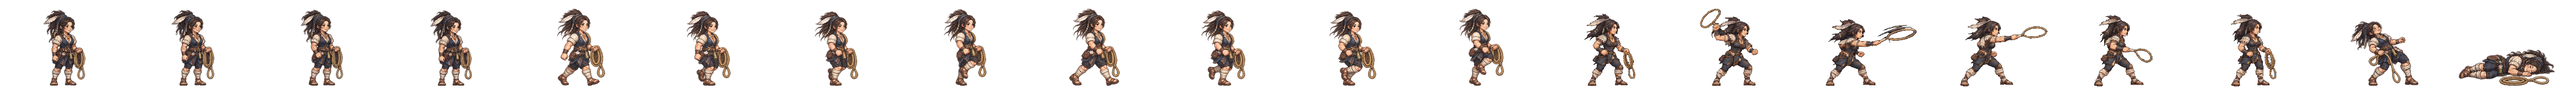
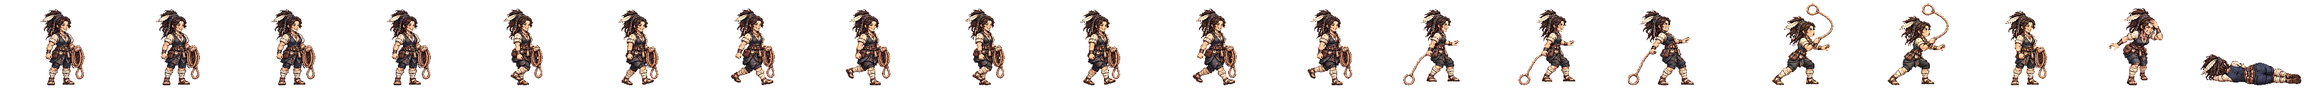
미추홀 비라 새 밧줄 띠를 게임에 넣음(칸 38 · 공격 칸 폭 288 · 걷기 뒤 절반을 앞 절반으로 · 휘두름 쥔 손은 다시 주문 L33·L34) · 인수인계
Claude-Session: https://claude.ai/code/session_01TRiuN7s6aDfSnaHxrkctmU

Changed region(s): [[0.4688, 0.0938, 1.0, 0.9688], [0.2188, 0.125, 0.4375, 0.9688], [0.0, 0.125, 0.1875, 0.9688]]

diff --git a/src/realm/data/spritePx.ts b/src/realm/data/spritePx.ts
@@ -1,3 +1,3 @@
 /** public/realm/anim-px/manifest.json 의 사본 — tools/sprite-normalize.mjs 가 만든다 (손으로 고치지 말 것). 칸 [가로, 세로] · feet = 발 줄(칸 위에서 y) · bodyPx = 서 있는 몸 키 */
 import { expandManifest } from './sprite-manifest.ts'
-export const SPRITE_PX: Readonly<Record<string, { readonly cell: readonly [number, number]; readonly feet: number; readonly bodyPx: number; readonly kind: 'general' | 'soldier' | 'folk' | 'crowd'; readonly cells: number }>> = expandManifest<{ readonly cell: readonly [number, number]; readonly feet: number; readonly bodyPx: number; readonly kind: 'general' | 'soldier' | 'folk' | 'crowd'; readonly cells: number }>([{"cell":[166,128],"feet":126,"bodyPx":124,"kind":"soldier","cells":20},{"cell":[116,128],"feet":126,"bodyPx":117,"kind":"soldier","cells":20},{"cell":[127,128],"feet":126,"bodyPx":116,"kind":"soldier","cells":20},{"cell":[269,128],"feet":126,"bodyPx":126,"kind":"soldier","cells":20},{"cell":[503,128],"feet":126,"bodyPx":127,"kind":"soldier","cells":20},{"cell":[614,128],"feet":126,"bodyPx":126,"kind":"soldier","cells":20},{"cell":[200,160],"feet":156,"bodyPx":138,"kind":"general","cells":20},{"cell":[208,160],"feet":155,"bodyPx":138,"kind":"general","cells":20},{"cell":[208,160],"feet":154,"bodyPx":138,"kind":"general","cells":20},{"cell":[304,160],"feet":155,"bodyPx":135,"kind":"general","cells":20},{"cell":[184,160],"feet":156,"bodyPx":138,"kind":"general","cells":20},{"cell":[208,160],"feet":154,"bodyPx":136,"kind":"general","cells":20},{"cell":[232,160],"feet":156,"bodyPx":138,"kind":"general","cells":20},{"cell":[208,160],"feet":156,"bodyPx":138,"kind":"general","cells":20},{"cell":[168,160],"feet":156,"bodyPx":124,"kind":"general","cells":20},{"cell":[216,160],"feet":156,"bodyPx":130,"kind":"general","cells":20},{"cell":[200,160],"feet":156,"bodyPx":116,"kind":"general","cells":20},{"cell":[192,160],"feet":156,"bodyPx":138,"kind":"general","cells":20},{"cell":[208,160],"feet":154,"bodyPx":135,"kind":"general","cells":20},{"cell":[280,160],"feet":156,"bodyPx":138,"kind":"general","cells":20},{"cell":[232,160],"feet":156,"bodyPx":134,"kind":"general","cells":20},{"cell":[144,160],"feet":156,"bodyPx":70,"kind":"general","cells":20},{"cell":[208,160],"feet":156,"bodyPx":70,"kind":"general","cells":20},{"cell":[192,160],"feet":156,"bodyPx":70,"kind":"general","cells":20},{"cell":[240,160],"feet":155,"bodyPx":138,"kind":"general","cells":20},{"cell":[192,160],"feet":156,"bodyPx":128,"kind":"general","cells":20},{"cell":[208,160],"feet":154,"bodyPx":137,"kind":"general","cells":20},{"cell":[216,160],"feet":156,"bodyPx":138,"kind":"general","cells":20},{"cell":[208,160],"feet":156,"bodyPx":134,"kind":"general","cells":20},{"cell":[208,160],"feet":154,"bodyPx":130,"kind":"general","cells":20},{"cell":[248,160],"feet":156,"bodyPx":138,"kind":"general","cells":20},{"cell":[248,160],"feet":155,"bodyPx":138,"kind":"general","cells":20},{"cell":[192,160],"feet":155,"bodyPx":138,"kind":"general","cells":20},{"cell":[192,160],"feet":156,"bodyPx":124,"kind":"general","cells":20},{"cell":[208,160],"feet":154,"bodyPx":131,"kind":"general","cells":20},{"cell":[240,160],"feet":156,"bodyPx":138,"kind":"general","cells":20},{"cell":[232,160],"feet":156,"bodyPx":73,"kind":"general","cells":20},{"cell":[224,160],"feet":156,"bodyPx":138,"kind":"general","cells":20},{"cell":[224,160],"feet":156,"bodyPx":128,"kind":"general","cells":20},{"cell":[176,160],"feet":156,"bodyPx":129,"kind":"general","cells":20},{"cell":[208,160],"feet":154,"bodyPx":139,"kind":"general","cells":20},{"cell":[232,160],"feet":155,"bodyPx":138,"kind":"general","cells":20},{"cell":[208,160],"feet":156,"bodyPx":132,"kind":"general","cells":20},{"cell":[184,160],"feet":156,"bodyPx":122,"kind":"general","cells":20},{"cell":[280,160],"feet":155,"bodyPx":133,"kind":"general","cells":20},{"cell":[176,160],"feet":156,"bodyPx":70,"kind":"general","cells":20},{"cell":[186,128],"feet":126,"bodyPx":127,"kind":"soldier","cells":20},{"cell":[298,128],"feet":126,"bodyPx":126,"kind":"soldier","cells":20},{"cell":[82,128],"feet":126,"bodyPx":114,"kind":"folk","cells":8},{"cell":[134,128],"feet":126,"bodyPx":119,"kind":"soldier","cells":20},{"cell":[380,128],"feet":126,"bodyPx":124,"kind":"soldier","cells":20},{"cell":[114,128],"feet":126,"bodyPx":115,"kind":"soldier","cells":20},{"cell":[122,128],"feet":126,"bodyPx":114,"kind":"soldier","cells":20},{"cell":[254,128],"feet":126,"bodyPx":128,"kind":"soldier","cells":20},{"cell":[438,128],"feet":126,"bodyPx":126,"kind":"soldier","cells":20},{"cell":[88,128],"feet":126,"bodyPx":113,"kind":"folk","cells":8},{"cell":[100,128],"feet":126,"bodyPx":115,"kind":"folk","cells":8},{"cell":[108,128],"feet":126,"bodyPx":115,"kind":"folk","cells":8},{"cell":[63,128],"feet":126,"bodyPx":113,"kind":"folk","cells":8},{"cell":[69,96],"feet":96,"bodyPx":96,"kind":"crowd","cells":1},{"cell":[54,96],"feet":96,"bodyPx":96,"kind":"crowd","cells":1},{"cell":[47,96],"feet":96,"bodyPx":96,"kind":"crowd","cells":1},{"cell":[49,96],"feet":96,"bodyPx":96,"kind":"crowd","cells":1},{"cell":[57,96],"feet":96,"bodyPx":96,"kind":"crowd","cells":1},{"cell":[55,96],"feet":96,"bodyPx":96,"kind":"crowd","cells":1},{"cell":[45,96],"feet":96,"bodyPx":96,"kind":"crowd","cells":1},{"cell":[53,96],"feet":96,"bodyPx":96,"kind":"crowd","cells":1},{"cell":[64,96],"feet":96,"bodyPx":96,"kind":"crowd","cells":1},{"cell":[264,160],"feet":156,"bodyPx":138,"kind":"general","cells":20},{"cell":[184,160],"feet":156,"bodyPx":124,"kind":"general","cells":20},{"cell":[256,160],"feet":156,"bodyPx":138,"kind":"general","cells":20},{"cell":[208,160],"feet":154,"bodyPx":134,"kind":"general","cells":20},{"cell":[224,160],"feet":156,"bodyPx":133,"kind":"general","cells":20},{"cell":[184,160],"feet":156,"bodyPx":137,"kind":"general","cells":20},{"cell":[176,160],"feet":156,"bodyPx":130,"kind":"general","cells":20},{"cell":[216,160],"feet":156,"bodyPx":134,"kind":"general","cells":20},{"cell":[216,160],"feet":156,"bodyPx":132,"kind":"general","cells":20},{"cell":[288,160],"feet":156,"bodyPx":138,"kind":"general","cells":20},{"cell":[192,160],"feet":156,"bodyPx":118,"kind":"general","cells":20},{"cell":[208,160],"feet":154,"bodyPx":132,"kind":"general","cells":20},{"cell":[208,160],"feet":154,"bodyPx":128,"kind":"general","cells":20},{"cell":[240,160],"feet":156,"bodyPx":128,"kind":"general","cells":20},{"cell":[184,160],"feet":156,"bodyPx":132,"kind":"general","cells":20},{"cell":[208,160],"feet":156,"bodyPx":123,"kind":"general","cells":20},{"cell":[192,160],"feet":156,"bodyPx":135,"kind":"general","cells":20},{"cell":[176,160],"feet":156,"bodyPx":116,"kind":"general","cells":20},{"cell":[272,160],"feet":156,"bodyPx":138,"kind":"general","cells":20},{"cell":[176,160],"feet":156,"bodyPx":138,"kind":"general","cells":20},{"cell":[176,160],"feet":156,"bodyPx":122,"kind":"general","cells":20},{"cell":[232,160],"feet":156,"bodyPx":127,"kind":"general","cells":20},{"cell":[184,160],"feet":156,"bodyPx":134,"kind":"general","cells":20},{"cell":[168,160],"feet":156,"bodyPx":138,"kind":"general","cells":20},{"cell":[176,160],"feet":156,"bodyPx":137,"kind":"general","cells":20},{"cell":[184,160],"feet":156,"bodyPx":133,"kind":"general","cells":20}],[["axe",0],["bandit-chief",1],["bandit-club",2],["boat",3],["bow",4],["crossbow",5],["gen-adogan",6],["gen-alpyeong",7],["gen-ara",8],["gen-areum",8],["gen-aryeong",9],["gen-bakdal",8],["gen-baram",8],["gen-bdanbi",10],["gen-beom",11],["gen-beombal",8],["gen-beomi",8],["gen-bira",12],["gen-biryu",13],["gen-budeul",8],["gen-byeol",8],["gen-daemusin",14],["gen-daeso",15],["gen-dallae2",8],["gen-dalli",8],["gen-damul",16],["gen-danbi",8],["gen-dangung",17],["gen-darae",18],["gen-dokmudeom",8],["gen-duman",19],["gen-eomni",8],["gen-eureum",20],["gen-g-bow",21],["gen-g-spear",22],["gen-g-sword",23],["gen-gaennae",8],["gen-gamsil",24],["gen-gaon",18],["gen-geota",13],["gen-geumbawi",10],["gen-geumha",25],["gen-goeun",8],["gen-gom",8],["gen-gomok",13],["gen-gureum",8],["gen-guryema",17],["gen-gwaeyu",12],["gen-haebi",8],["gen-haedal",6],["gen-haesol",8],["gen-halla",26],["gen-heo",8],["gen-hneoul",27],["gen-hogong",27],["gen-hojin",13],["gen-horselord",28],["gen-hwalmi",29],["gen-hyeokgeose",17],["gen-hyeopbo",6],["gen-irang",8],["gen-jibaekho",30],["gen-jinha",31],["gen-jita",32],["gen-jumong",33],["gen-keundol",7],["gen-maehwa",34],["gen-maenun",17],["gen-malgalgi",8],["gen-mari",35],["gen-maro",30],["gen-maryeo",13],["gen-mdallae",8],["gen-mir",8],["gen-mount",36],["gen-mulbeom",26],["gen-mulsae",26],["gen-musoe",27],["gen-noeul",8],["gen-nuri",8],["gen-ocheongan",37],["gen-odi",8],["gen-odogan",6],["gen-ogan",17],["gen-oi",38],["gen-olddaeso",20],["gen-onjo",39],["gen-pidogan",13],["gen-sagong",40],["gen-sdallae",8],["gen-sincheongan",8],["gen-singwigan",27],["gen-sinneoul",8],["gen-sobeol",41],["gen-soebi",8],["gen-soebo",42],["gen-soenun",40],["gen-sogeumbi",26],["gen-songbi",8],["gen-songyang",43],["gen-sori",8],["gen-soseono",44],["gen-suro",17],["gen-tahae",6],["gen-tneoul",8],["gen-w-bow",21],["gen-w-spear",45],["gen-waechief",13],["gen-wan",27],["gen-yeodogan",13],["gen-yucheongan",8],["gen-yusugan",30],["horse",46],["marine",47],["migrant",48],["militia",49],["pike",50],["pirate-captain",51],["pirate-sword",52],["shield",53],["spear",54],["villager-builder",55],["villager-farmer",56],["villager-porter",57],["villager-woman",58],["crowd-b1",59],["crowd-b2",60],["crowd-b3",61],["crowd-b4",62],["crowd-b5",63],["crowd-b6",64],["crowd-f1",59],["crowd-f2",64],["crowd-f3",65],["crowd-f4",66],["crowd-f5",59],["crowd-f6",67],["gen-dalbit",13],["gen-base-g-07-drunk-warrior",17],["gen-base-g-40-anya-adan",13],["gen-base-w-13-young-archer",8],["gen-base-g-03-sea-trader",35],["gen-base-w-10-pirate-captain",40],["gen-base-w-64-miri-dallae",40],["gen-base-g-41-goja-bau",35],["gen-base-g-42-dokro-garam",68],["gen-base-g-09-farmer-conscript",27],["gen-base-w-02-goguryeo-lady",8],["gen-base-w-17-mahan-pearl-diver",8],["gen-base-g-17-saro-isageum",42],["gen-base-g-18-daegaya-king",69],["gen-base-g-35-dabeol-dalgu",13],["gen-base-g-19-sabeol-veteran",27],["gen-base-w-23-usisan-whale-queen",8],["gen-base-g-36-gammun-gamdol",37],["gen-base-g-20-samul-sea-lord",70],["gen-base-g-37-eumjeup-jeup",10],["gen-base-g-38-chopal-palmae",17],["gen-base-w-75-daegaya-soemoe",8],["gen-base-g-45-dabeol-deulgae",10],["gen-base-g-04-jinhan-giant",13],["gen-base-g-08-veteran",13],["gen-base-w-18-jinhan-salt-widow",8],["gen-base-w-12-court-dancer",71],["gen-base-w-83-gyeonji-beodeul",72],["gen-base-w-05-baekje-queen",18],["gen-base-w-21-baekje-court-dancer",10],["gen-base-g-01-master-smith",73],["gen-base-g-93-jomun-solgae",74],["gen-base-g-57-bihwa-neup",35],["gen-base-w-72-eumjeup-beol",8],["gen-base-w-102-garak-dana",40],["gen-base-g-68-baekje-onnuri",13],["gen-base-w-27-mokji-jinha",6],["gen-base-g-22-ungcheon-gomnae",6],["gen-base-g-23-sangdang-soedal",13],["gen-base-g-24-wansan-onsan",6],["gen-base-g-25-balla-keunmoe",27],["gen-base-g-61-heomcheuk-bawi",27],["gen-base-g-88-wander-soeul",37],["gen-base-w-14-feast-spy",8],["gen-base-g-12-silla-youth",75],["gen-base-w-08-mahan-warrior",8],["gen-base-g-62-beonye-hanul",35],["gen-base-g-63-heomcheuk-beogeum",13],["gen-base-g-84-wander-seoneul",13],["gen-base-w-50-siljik-mulga",27],["gen-base-g-46-uga-nureongso",27],["gen-base-w-80-usan-gangchi",40],["gen-base-g-47-guga-sanyanggae",27],["gen-base-w-76-gampyeong-baetsagong",8],["gen-base-g-05-mahan-chieftain",76],["gen-base-g-58-usan-uhae",13],["gen-base-g-27-maek-maekdol",13],["gen-base-w-53-hwanna-gabi",40],["gen-base-w-29-golpo-janmul",8],["gen-base-g-53-baekje-haeru",6],["gen-base-w-71-yeonna-neoul",8],["gen-base-w-79-yangmaek-solmae",8],["gen-base-w-34-chopal-deulme",8],["gen-base-g-44-maga-malgup",77],["gen-base-w-31-dabeol-dalbit",40],["gen-base-g-51-biryuna-mulgyeol",37],["gen-base-g-48-gwanna-musoe",13],["gen-base-g-32-uga-sodu",12],["gen-base-g-49-goguryeo-sona",78],["gen-base-g-30-gwanna-soemoe",37],["gen-base-g-52-tamna-oreum",10],["gen-base-g-29-yeonna-myeongsol",33],["gen-base-w-56-dongokjeo-sogeum",71],["gen-base-g-54-mokji-mahan",12],["gen-base-g-33-jeoga-metdol",17],["gen-base-w-36-baekje-maena",8],["gen-base-w-38-sangdang-bulmae",40],["gen-base-w-39-gosaburi-galmae",8],["gen-base-w-40-mujin-munui",79],["gen-base-w-41-hwanna-beodeul",80],["gen-base-w-43-uga-nuri",70],["gen-base-w-45-tamna-oreumbi",10],["gen-base-g-60-golbeol-golgae",10],["gen-base-g-61-apdok-ap",27],["gen-base-g-62-gammun-gamnamu",6],["gen-base-g-63-chopal-yeoul",30],["gen-base-g-64-michuhol-sogeumkkun",35],["gen-base-g-65-sangdang-soemangchi",37],["gen-base-g-66-geonma-malbalgup",81],["gen-base-g-67-gosaburi-buri",82],["gen-base-g-68-mujin-bitgoeul",10],["gen-base-g-69-goryong-yong",37],["gen-base-g-70-siljik-pado",35],["gen-base-w-81-byeokjin-byeolbit",8],["gen-base-w-46-geonma-maru",8],["gen-base-w-48-mujin-mudeung",8],["gen-base-g-26-gampyeong-gaetbeol",12],["gen-base-g-60-eupcha-hangyeol",83],["gen-base-g-15-shaman-man",27],["gen-base-g-85-wander-ure",30],["gen-base-g-43-hwanna-amnok",13],["gen-base-g-50-bullae-gwaha",84],["gen-base-g-55-saro-bakdal",13],["gen-base-g-56-haseulla-gwahama",6],["gen-base-w-06-buyeo-huntress",26],["gen-base-w-22-dongye-tiger-huntress",8],["gen-base-w-25-bihwa-priestess",8],["gen-base-w-24-apdok-queen",8],["gen-base-w-61-iseo-sinae",8],["gen-base-w-26-iseo-tomboy-general",8],["gen-base-g-59-yangmaek-maekson",85],["gen-aw1-haebi",37],["gen-aw1-soseono",86],["gen-aw1-gamsil",10],["gen-aw1-mir",87],["gen-aw1-dangung",6],["gen-aw1-ara",37],["gen-aw1-jumong",88],["gen-aw1-onjo",89],["gen-aw1-base-w-83-gyeonji-beodeul",17],["gen-aw1-heo",68],["gen-aw1-base-g-38-chopal-palmae",6],["gen-aw1-base-w-25-bihwa-priestess",90],["gen-aw1-sori",91],["gen-aw1-gomok",6],["gen-aw1-irang",17],["gen-aw1-budeul",91],["gen-aw1-gom",35],["gen-aw1-sdallae",6],["gen-aw1-base-w-13-young-archer",6],["gen-aw1-base-w-36-baekje-maena",92],["gen-aw1-base-g-09-farmer-conscript",68],["gen-aw1-base-w-02-goguryeo-lady",93],["gen-aw1-haedal",10],["gen-aw1-hogong",6],["gen-aw1-maehwa",87],["gen-aw1-base-w-06-buyeo-huntress",12],["gen-aw1-base-w-08-mahan-warrior",37],["gen-aw1-base-w-29-golpo-janmul",37],["gen-aw1-base-w-31-dabeol-dalbit",17],["gen-aw1-base-w-38-sangdang-bulmae",91],["gen-aw1-bira",27],["gen-aw1-base-w-53-hwanna-gabi",91],["gen-aw1-base-w-56-dongokjeo-sogeum",87],["gen-aw1-base-w-72-eumjeup-beol",17],["gen-aw1-bdanbi",91],["gen-aw1-beom",10],["gen-aw1-beombal",10],["gen-aw1-byeol",17],["gen-aw1-dalli",87],["gen-aw1-malgalgi",30],["gen-aw1-sincheongan",27]])
+export const SPRITE_PX: Readonly<Record<string, { readonly cell: readonly [number, number]; readonly feet: number; readonly bodyPx: number; readonly kind: 'general' | 'soldier' | 'folk' | 'crowd'; readonly cells: number }>> = expandManifest<{ readonly cell: readonly [number, number]; readonly feet: number; readonly bodyPx: number; readonly kind: 'general' | 'soldier' | 'folk' | 'crowd'; readonly cells: number }>([{"cell":[166,128],"feet":126,"bodyPx":124,"kind":"soldier","cells":20},{"cell":[116,128],"feet":126,"bodyPx":117,"kind":"soldier","cells":20},{"cell":[127,128],"feet":126,"bodyPx":116,"kind":"soldier","cells":20},{"cell":[269,128],"feet":126,"bodyPx":126,"kind":"soldier","cells":20},{"cell":[503,128],"feet":126,"bodyPx":127,"kind":"soldier","cells":20},{"cell":[614,128],"feet":126,"bodyPx":126,"kind":"soldier","cells":20},{"cell":[200,160],"feet":156,"bodyPx":138,"kind":"general","cells":20},{"cell":[208,160],"feet":155,"bodyPx":138,"kind":"general","cells":20},{"cell":[208,160],"feet":154,"bodyPx":138,"kind":"general","cells":20},{"cell":[208,160],"feet":154,"bodyPx":135,"kind":"general","cells":20},{"cell":[184,160],"feet":156,"bodyPx":138,"kind":"general","cells":20},{"cell":[208,160],"feet":154,"bodyPx":136,"kind":"general","cells":20},{"cell":[208,160],"feet":156,"bodyPx":138,"kind":"general","cells":20},{"cell":[168,160],"feet":156,"bodyPx":124,"kind":"general","cells":20},{"cell":[216,160],"feet":156,"bodyPx":130,"kind":"general","cells":20},{"cell":[200,160],"feet":156,"bodyPx":116,"kind":"general","cells":20},{"cell":[192,160],"feet":156,"bodyPx":138,"kind":"general","cells":20},{"cell":[280,160],"feet":156,"bodyPx":138,"kind":"general","cells":20},{"cell":[232,160],"feet":156,"bodyPx":134,"kind":"general","cells":20},{"cell":[144,160],"feet":156,"bodyPx":70,"kind":"general","cells":20},{"cell":[208,160],"feet":156,"bodyPx":70,"kind":"general","cells":20},{"cell":[192,160],"feet":156,"bodyPx":70,"kind":"general","cells":20},{"cell":[240,160],"feet":155,"bodyPx":138,"kind":"general","cells":20},{"cell":[192,160],"feet":156,"bodyPx":128,"kind":"general","cells":20},{"cell":[232,160],"feet":156,"bodyPx":138,"kind":"general","cells":20},{"cell":[208,160],"feet":154,"bodyPx":137,"kind":"general","cells":20},{"cell":[208,160],"feet":154,"bodyPx":139,"kind":"general","cells":20},{"cell":[216,160],"feet":156,"bodyPx":138,"kind":"general","cells":20},{"cell":[208,160],"feet":156,"bodyPx":134,"kind":"general","cells":20},{"cell":[208,160],"feet":154,"bodyPx":130,"kind":"general","cells":20},{"cell":[248,160],"feet":156,"bodyPx":138,"kind":"general","cells":20},{"cell":[248,160],"feet":155,"bodyPx":138,"kind":"general","cells":20},{"cell":[192,160],"feet":155,"bodyPx":138,"kind":"general","cells":20},{"cell":[192,160],"feet":156,"bodyPx":124,"kind":"general","cells":20},{"cell":[208,160],"feet":154,"bodyPx":131,"kind":"general","cells":20},{"cell":[240,160],"feet":156,"bodyPx":138,"kind":"general","cells":20},{"cell":[232,160],"feet":156,"bodyPx":73,"kind":"general","cells":20},{"cell":[224,160],"feet":156,"bodyPx":138,"kind":"general","cells":20},{"cell":[224,160],"feet":156,"bodyPx":128,"kind":"general","cells":20},{"cell":[176,160],"feet":156,"bodyPx":129,"kind":"general","cells":20},{"cell":[232,160],"feet":155,"bodyPx":138,"kind":"general","cells":20},{"cell":[208,160],"feet":156,"bodyPx":132,"kind":"general","cells":20},{"cell":[184,160],"feet":156,"bodyPx":122,"kind":"general","cells":20},{"cell":[280,160],"feet":155,"bodyPx":133,"kind":"general","cells":20},{"cell":[176,160],"feet":156,"bodyPx":70,"kind":"general","cells":20},{"cell":[186,128],"feet":126,"bodyPx":127,"kind":"soldier","cells":20},{"cell":[298,128],"feet":126,"bodyPx":126,"kind":"soldier","cells":20},{"cell":[82,128],"feet":126,"bodyPx":114,"kind":"folk","cells":8},{"cell":[134,128],"feet":126,"bodyPx":119,"kind":"soldier","cells":20},{"cell":[380,128],"feet":126,"bodyPx":124,"kind":"soldier","cells":20},{"cell":[114,128],"feet":126,"bodyPx":115,"kind":"soldier","cells":20},{"cell":[122,128],"feet":126,"bodyPx":114,"kind":"soldier","cells":20},{"cell":[254,128],"feet":126,"bodyPx":128,"kind":"soldier","cells":20},{"cell":[438,128],"feet":126,"bodyPx":126,"kind":"soldier","cells":20},{"cell":[88,128],"feet":126,"bodyPx":113,"kind":"folk","cells":8},{"cell":[100,128],"feet":126,"bodyPx":115,"kind":"folk","cells":8},{"cell":[108,128],"feet":126,"bodyPx":115,"kind":"folk","cells":8},{"cell":[63,128],"feet":126,"bodyPx":113,"kind":"folk","cells":8},{"cell":[69,96],"feet":96,"bodyPx":96,"kind":"crowd","cells":1},{"cell":[54,96],"feet":96,"bodyPx":96,"kind":"crowd","cells":1},{"cell":[47,96],"feet":96,"bodyPx":96,"kind":"crowd","cells":1},{"cell":[49,96],"feet":96,"bodyPx":96,"kind":"crowd","cells":1},{"cell":[57,96],"feet":96,"bodyPx":96,"kind":"crowd","cells":1},{"cell":[55,96],"feet":96,"bodyPx":96,"kind":"crowd","cells":1},{"cell":[45,96],"feet":96,"bodyPx":96,"kind":"crowd","cells":1},{"cell":[53,96],"feet":96,"bodyPx":96,"kind":"crowd","cells":1},{"cell":[64,96],"feet":96,"bodyPx":96,"kind":"crowd","cells":1},{"cell":[264,160],"feet":156,"bodyPx":138,"kind":"general","cells":20},{"cell":[184,160],"feet":156,"bodyPx":124,"kind":"general","cells":20},{"cell":[256,160],"feet":156,"bodyPx":138,"kind":"general","cells":20},{"cell":[208,160],"feet":154,"bodyPx":134,"kind":"general","cells":20},{"cell":[224,160],"feet":156,"bodyPx":133,"kind":"general","cells":20},{"cell":[184,160],"feet":156,"bodyPx":137,"kind":"general","cells":20},{"cell":[176,160],"feet":156,"bodyPx":130,"kind":"general","cells":20},{"cell":[216,160],"feet":156,"bodyPx":134,"kind":"general","cells":20},{"cell":[216,160],"feet":156,"bodyPx":132,"kind":"general","cells":20},{"cell":[288,160],"feet":156,"bodyPx":138,"kind":"general","cells":20},{"cell":[192,160],"feet":156,"bodyPx":118,"kind":"general","cells":20},{"cell":[208,160],"feet":154,"bodyPx":132,"kind":"general","cells":20},{"cell":[208,160],"feet":154,"bodyPx":128,"kind":"general","cells":20},{"cell":[240,160],"feet":156,"bodyPx":128,"kind":"general","cells":20},{"cell":[184,160],"feet":156,"bodyPx":132,"kind":"general","cells":20},{"cell":[208,160],"feet":156,"bodyPx":123,"kind":"general","cells":20},{"cell":[192,160],"feet":156,"bodyPx":135,"kind":"general","cells":20},{"cell":[176,160],"feet":156,"bodyPx":116,"kind":"general","cells":20},{"cell":[272,160],"feet":156,"bodyPx":138,"kind":"general","cells":20},{"cell":[176,160],"feet":156,"bodyPx":138,"kind":"general","cells":20},{"cell":[176,160],"feet":156,"bodyPx":122,"kind":"general","cells":20},{"cell":[232,160],"feet":156,"bodyPx":127,"kind":"general","cells":20},{"cell":[184,160],"feet":156,"bodyPx":134,"kind":"general","cells":20},{"cell":[168,160],"feet":156,"bodyPx":138,"kind":"general","cells":20},{"cell":[176,160],"feet":156,"bodyPx":137,"kind":"general","cells":20},{"cell":[184,160],"feet":156,"bodyPx":133,"kind":"general","cells":20}],[["axe",0],["bandit-chief",1],["bandit-club",2],["boat",3],["bow",4],["crossbow",5],["gen-adogan",6],["gen-alpyeong",7],["gen-ara",8],["gen-areum",8],["gen-aryeong",9],["gen-bakdal",8],["gen-baram",8],["gen-bdanbi",10],["gen-beom",11],["gen-beombal",8],["gen-beomi",8],["gen-bira",8],["gen-biryu",12],["gen-budeul",8],["gen-byeol",8],["gen-daemusin",13],["gen-daeso",14],["gen-dallae2",8],["gen-dalli",8],["gen-damul",15],["gen-danbi",8],["gen-dangung",16],["gen-darae",9],["gen-dokmudeom",8],["gen-duman",17],["gen-eomni",8],["gen-eureum",18],["gen-g-bow",19],["gen-g-spear",20],["gen-g-sword",21],["gen-gaennae",8],["gen-gamsil",22],["gen-gaon",9],["gen-geota",12],["gen-geumbawi",10],["gen-geumha",23],["gen-goeun",8],["gen-gom",8],["gen-gomok",12],["gen-gureum",8],["gen-guryema",16],["gen-gwaeyu",24],["gen-haebi",8],["gen-haedal",6],["gen-haesol",8],["gen-halla",25],["gen-heo",8],["gen-hneoul",26],["gen-hogong",27],["gen-hojin",12],["gen-horselord",28],["gen-hwalmi",29],["gen-hyeokgeose",16],["gen-hyeopbo",6],["gen-irang",8],["gen-jibaekho",30],["gen-jinha",31],["gen-jita",32],["gen-jumong",33],["gen-keundol",7],["gen-maehwa",34],["gen-maenun",16],["gen-malgalgi",8],["gen-mari",35],["gen-maro",30],["gen-maryeo",12],["gen-mdallae",8],["gen-mir",8],["gen-mount",36],["gen-mulbeom",25],["gen-mulsae",25],["gen-musoe",27],["gen-noeul",8],["gen-nuri",8],["gen-ocheongan",37],["gen-odi",8],["gen-odogan",6],["gen-ogan",16],["gen-oi",38],["gen-olddaeso",18],["gen-onjo",39],["gen-pidogan",12],["gen-sagong",26],["gen-sdallae",8],["gen-sincheongan",8],["gen-singwigan",27],["gen-sinneoul",8],["gen-sobeol",40],["gen-soebi",8],["gen-soebo",41],["gen-soenun",26],["gen-sogeumbi",25],["gen-songbi",8],["gen-songyang",42],["gen-sori",8],["gen-soseono",43],["gen-suro",16],["gen-tahae",6],["gen-tneoul",8],["gen-w-bow",19],["gen-w-spear",44],["gen-waechief",12],["gen-wan",27],["gen-yeodogan",12],["gen-yucheongan",8],["gen-yusugan",30],["horse",45],["marine",46],["migrant",47],["militia",48],["pike",49],["pirate-captain",50],["pirate-sword",51],["shield",52],["spear",53],["villager-builder",54],["villager-farmer",55],["villager-porter",56],["villager-woman",57],["crowd-b1",58],["crowd-b2",59],["crowd-b3",60],["crowd-b4",61],["crowd-b5",62],["crowd-b6",63],["crowd-f1",58],["crowd-f2",63],["crowd-f3",64],["crowd-f4",65],["crowd-f5",58],["crowd-f6",66],["gen-dalbit",12],["gen-base-g-07-drunk-warrior",16],["gen-base-g-40-anya-adan",12],["gen-base-w-13-young-archer",8],["gen-base-g-03-sea-trader",35],["gen-base-w-10-pirate-captain",26],["gen-base-w-64-miri-dallae",26],["gen-base-g-41-goja-bau",35],["gen-base-g-42-dokro-garam",67],["gen-base-g-09-farmer-conscript",27],["gen-base-w-02-goguryeo-lady",8],["gen-base-w-17-mahan-pearl-diver",8],["gen-base-g-17-saro-isageum",41],["gen-base-g-18-daegaya-king",68],["gen-base-g-35-dabeol-dalgu",12],["gen-base-g-19-sabeol-veteran",27],["gen-base-w-23-usisan-whale-queen",8],["gen-base-g-36-gammun-gamdol",37],["gen-base-g-20-samul-sea-lord",69],["gen-base-g-37-eumjeup-jeup",10],["gen-base-g-38-chopal-palmae",16],["gen-base-w-75-daegaya-soemoe",8],["gen-base-g-45-dabeol-deulgae",10],["gen-base-g-04-jinhan-giant",12],["gen-base-g-08-veteran",12],["gen-base-w-18-jinhan-salt-widow",8],["gen-base-w-12-court-dancer",70],["gen-base-w-83-gyeonji-beodeul",71],["gen-base-w-05-baekje-queen",9],["gen-base-w-21-baekje-court-dancer",10],["gen-base-g-01-master-smith",72],["gen-base-g-93-jomun-solgae",73],["gen-base-g-57-bihwa-neup",35],["gen-base-w-72-eumjeup-beol",8],["gen-base-w-102-garak-dana",26],["gen-base-g-68-baekje-onnuri",12],["gen-base-w-27-mokji-jinha",6],["gen-base-g-22-ungcheon-gomnae",6],["gen-base-g-23-sangdang-soedal",12],["gen-base-g-24-wansan-onsan",6],["gen-base-g-25-balla-keunmoe",27],["gen-base-g-61-heomcheuk-bawi",27],["gen-base-g-88-wander-soeul",37],["gen-base-w-14-feast-spy",8],["gen-base-g-12-silla-youth",74],["gen-base-w-08-mahan-warrior",8],["gen-base-g-62-beonye-hanul",35],["gen-base-g-63-heomcheuk-beogeum",12],["gen-base-g-84-wander-seoneul",12],["gen-base-w-50-siljik-mulga",27],["gen-base-g-46-uga-nureongso",27],["gen-base-w-80-usan-gangchi",26],["gen-base-g-47-guga-sanyanggae",27],["gen-base-w-76-gampyeong-baetsagong",8],["gen-base-g-05-mahan-chieftain",75],["gen-base-g-58-usan-uhae",12],["gen-base-g-27-maek-maekdol",12],["gen-base-w-53-hwanna-gabi",26],["gen-base-w-29-golpo-janmul",8],["gen-base-g-53-baekje-haeru",6],["gen-base-w-71-yeonna-neoul",8],["gen-base-w-79-yangmaek-solmae",8],["gen-base-w-34-chopal-deulme",8],["gen-base-g-44-maga-malgup",76],["gen-base-w-31-dabeol-dalbit",26],["gen-base-g-51-biryuna-mulgyeol",37],["gen-base-g-48-gwanna-musoe",12],["gen-base-g-32-uga-sodu",24],["gen-base-g-49-goguryeo-sona",77],["gen-base-g-30-gwanna-soemoe",37],["gen-base-g-52-tamna-oreum",10],["gen-base-g-29-yeonna-myeongsol",33],["gen-base-w-56-dongokjeo-sogeum",70],["gen-base-g-54-mokji-mahan",24],["gen-base-g-33-jeoga-metdol",16],["gen-base-w-36-baekje-maena",8],["gen-base-w-38-sangdang-bulmae",26],["gen-base-w-39-gosaburi-galmae",8],["gen-base-w-40-mujin-munui",78],["gen-base-w-41-hwanna-beodeul",79],["gen-base-w-43-uga-nuri",69],["gen-base-w-45-tamna-oreumbi",10],["gen-base-g-60-golbeol-golgae",10],["gen-base-g-61-apdok-ap",27],["gen-base-g-62-gammun-gamnamu",6],["gen-base-g-63-chopal-yeoul",30],["gen-base-g-64-michuhol-sogeumkkun",35],["gen-base-g-65-sangdang-soemangchi",37],["gen-base-g-66-geonma-malbalgup",80],["gen-base-g-67-gosaburi-buri",81],["gen-base-g-68-mujin-bitgoeul",10],["gen-base-g-69-goryong-yong",37],["gen-base-g-70-siljik-pado",35],["gen-base-w-81-byeokjin-byeolbit",8],["gen-base-w-46-geonma-maru",8],["gen-base-w-48-mujin-mudeung",8],["gen-base-g-26-gampyeong-gaetbeol",24],["gen-base-g-60-eupcha-hangyeol",82],["gen-base-g-15-shaman-man",27],["gen-base-g-85-wander-ure",30],["gen-base-g-43-hwanna-amnok",12],["gen-base-g-50-bullae-gwaha",83],["gen-base-g-55-saro-bakdal",12],["gen-base-g-56-haseulla-gwahama",6],["gen-base-w-06-buyeo-huntress",25],["gen-base-w-22-dongye-tiger-huntress",8],["gen-base-w-25-bihwa-priestess",8],["gen-base-w-24-apdok-queen",8],["gen-base-w-61-iseo-sinae",8],["gen-base-w-26-iseo-tomboy-general",8],["gen-base-g-59-yangmaek-maekson",84],["gen-aw1-haebi",37],["gen-aw1-soseono",85],["gen-aw1-gamsil",10],["gen-aw1-mir",86],["gen-aw1-dangung",6],["gen-aw1-ara",37],["gen-aw1-jumong",87],["gen-aw1-onjo",88],["gen-aw1-base-w-83-gyeonji-beodeul",16],["gen-aw1-heo",67],["gen-aw1-base-g-38-chopal-palmae",6],["gen-aw1-base-w-25-bihwa-priestess",89],["gen-aw1-sori",90],["gen-aw1-gomok",6],["gen-aw1-irang",16],["gen-aw1-budeul",90],["gen-aw1-gom",35],["gen-aw1-sdallae",6],["gen-aw1-base-w-13-young-archer",6],["gen-aw1-base-w-36-baekje-maena",91],["gen-aw1-base-g-09-farmer-conscript",67],["gen-aw1-base-w-02-goguryeo-lady",92],["gen-aw1-haedal",10],["gen-aw1-hogong",6],["gen-aw1-maehwa",86],["gen-aw1-base-w-06-buyeo-huntress",24],["gen-aw1-base-w-08-mahan-warrior",37],["gen-aw1-base-w-29-golpo-janmul",37],["gen-aw1-base-w-31-dabeol-dalbit",16],["gen-aw1-base-w-38-sangdang-bulmae",90],["gen-aw1-bira",27],["gen-aw1-base-w-53-hwanna-gabi",90],["gen-aw1-base-w-56-dongokjeo-sogeum",86],["gen-aw1-base-w-72-eumjeup-beol",16],["gen-aw1-bdanbi",90],["gen-aw1-beom",10],["gen-aw1-beombal",10],["gen-aw1-byeol",16],["gen-aw1-dalli",86],["gen-aw1-malgalgi",30],["gen-aw1-sincheongan",27]])

diff --git a/src/duel/view.ts b/src/duel/view.ts
@@ -100,7 +100,7 @@ const crowdFront = [1, 2, 3, 4, 5, 6].map((i) => img(`realm/duel/crowd/b${i}.png
 const crowdReady = (set: HTMLImageElement[]): boolean => set.every((im) => im.complete && im.naturalWidth > 0)
 const pxMode = cfg.px !== false && params.get('px') !== '0'
 /** 겨루기 전용 옛 띠(duel/sprites) 대신 열전과 같은 도트 띠(anim-px)를 쓰는 장수 — 두 판에서 같은 모습 · 서기 계획·쓰러지는 칸도 같다 (11-23 범 · 매화 · 달빛 · 11-24 해비 · 아룸) */
-const PX_DUEL: ReadonlySet<string> = new Set(['beom', 'maehwa', 'base-w-31-dabeol-dalbit', 'haebi', 'areum', 'base-w-13-young-archer', 'base-w-10-pirate-captain', 'base-w-17-mahan-pearl-diver', 'base-w-06-buyeo-huntress', 'base-w-64-miri-dallae', 'ara', 'base-w-22-dongye-tiger-huntress', 'noeul', 'sagong', 'sinneoul', 'heo', 'base-w-08-mahan-warrior', 'base-w-23-usisan-whale-queen', 'base-w-26-iseo-tomboy-general', 'base-w-72-eumjeup-beol', 'tneoul', 'odi', 'base-w-76-gampyeong-baetsagong', 'base-w-34-chopal-deulme', 'base-w-102-garak-dana', 'base-w-36-baekje-maena', 'base-w-56-dongokjeo-sogeum', 'budeul', 'base-w-53-hwanna-gabi', 'base-w-18-jinhan-salt-widow', 'beombal', 'irang', 'sogeumbi', 'baram', 'byeol', 'base-w-71-yeonna-neoul', 'base-w-39-gosaburi-galmae', 'base-w-41-hwanna-beodeul', 'base-w-79-yangmaek-solmae', 'base-w-46-geonma-maru', 'base-w-48-mujin-mudeung', 'base-w-80-usan-gangchi', 'base-w-81-byeokjin-byeolbit', 'beomi', 'danbi', 'dalli', 'gureum', 'haesol', 'soenun', 'eomni', 'mulbeom', 'mulsae', 'bakdal', 'darae', 'sori', 'base-w-12-court-dancer', 'hwalmi', 'gaennae', 'dokmudeom', 'base-w-14-feast-spy', 'base-w-25-bihwa-priestess', 'sincheongan', 'base-w-40-mujin-munui', 'halla', 'yucheongan', 'base-w-02-goguryeo-lady', 'gaon', 'base-w-24-apdok-queen', 'base-w-61-iseo-sinae', 'goeun', 'base-w-05-baekje-queen', 'mdallae', 'nuri', 'base-w-75-daegaya-soemoe', 'soebi', 'base-w-38-sangdang-bulmae', 'gom', 'songbi', 'malgalgi', 'dallae2', 'hneoul', 'sdallae', 'mir', 'aryeong', 'base-w-29-golpo-janmul'])
+const PX_DUEL: ReadonlySet<string> = new Set(['beom', 'maehwa', 'base-w-31-dabeol-dalbit', 'haebi', 'areum', 'base-w-13-young-archer', 'base-w-10-pirate-captain', 'base-w-17-mahan-pearl-diver', 'base-w-06-buyeo-huntress', 'base-w-64-miri-dallae', 'ara', 'base-w-22-dongye-tiger-huntress', 'noeul', 'sagong', 'sinneoul', 'heo', 'base-w-08-mahan-warrior', 'base-w-23-usisan-whale-queen', 'base-w-26-iseo-tomboy-general', 'base-w-72-eumjeup-beol', 'tneoul', 'odi', 'base-w-76-gampyeong-baetsagong', 'base-w-34-chopal-deulme', 'base-w-102-garak-dana', 'base-w-36-baekje-maena', 'base-w-56-dongokjeo-sogeum', 'budeul', 'base-w-53-hwanna-gabi', 'base-w-18-jinhan-salt-widow', 'beombal', 'irang', 'sogeumbi', 'baram', 'byeol', 'base-w-71-yeonna-neoul', 'base-w-39-gosaburi-galmae', 'base-w-41-hwanna-beodeul', 'base-w-79-yangmaek-solmae', 'base-w-46-geonma-maru', 'base-w-48-mujin-mudeung', 'base-w-80-usan-gangchi', 'base-w-81-byeokjin-byeolbit', 'beomi', 'danbi', 'dalli', 'gureum', 'haesol', 'soenun', 'eomni', 'mulbeom', 'mulsae', 'bakdal', 'darae', 'sori', 'base-w-12-court-dancer', 'hwalmi', 'gaennae', 'dokmudeom', 'base-w-14-feast-spy', 'base-w-25-bihwa-priestess', 'sincheongan', 'base-w-40-mujin-munui', 'halla', 'yucheongan', 'base-w-02-goguryeo-lady', 'gaon', 'base-w-24-apdok-queen', 'base-w-61-iseo-sinae', 'goeun', 'base-w-05-baekje-queen', 'mdallae', 'nuri', 'base-w-75-daegaya-soemoe', 'soebi', 'base-w-38-sangdang-bulmae', 'gom', 'songbi', 'malgalgi', 'dallae2', 'hneoul', 'sdallae', 'mir', 'aryeong', 'base-w-29-golpo-janmul', 'bira'])
 /** 띠 그림 — 기본은 anim-px(도트 규격) 먼저, 없으면 옛 띠로 (img 의 onerror 가 갈아 끼운다) */
 const strip = (s: string): HTMLImageElement => pxMode
   ? DUEL_ATLASES[s] !== undefined && !PX_DUEL.has(s) ? img(`realm/duel/sprites/gen-${s}.png`, `realm/anim-px/gen-${s}.png`)

diff --git a/src/tune/params.ts b/src/tune/params.ts
@@ -1557,6 +1557,7 @@ export const HAEBI_IDLE = {
     mir: { cells: 30, base: [0, 1], hold: 2.4, fall: [18, 20, 21, 19], quirk: [22, 23, 24, 25], quirkTimes: [.28, .3, .42, .25], hurt: [26, 27], rise: [28, 29] },
     aryeong: { cells: 38, base: [0, 1], hold: 2.4, fall: [18, 20, 21, 19], quirk: [22, 23, 24, 25], quirkTimes: [.3, .32, .4, .28], attack: { cells: [26, 27, 28, 29, 30, 31, 32, 33], times: [.09, .08, .11, .05, .15, .07, .08, .12], hit: 4 }, hurt: [34, 35], rise: [36, 37], xGeom: { h: 224, root: 92, foot: 216 } },
     'base-w-29-golpo-janmul': { cells: 38, base: [0, 1], hold: 2.4, fall: [18, 20, 21, 19], quirk: [22, 23, 24, 25], quirkTimes: [.3, .32, .4, .28], attack: { cells: [26, 27, 28, 29, 30, 31, 32, 33], times: [.09, .08, .11, .05, .15, .07, .08, .12], hit: 4 }, hurt: [34, 35], rise: [36, 37], xGeom: { h: 224, root: 92, foot: 216 } },
+    bira: { cells: 38, base: [0, 1], hold: 2.4, fall: [18, 20, 21, 19], quirk: [22, 23, 24, 25], quirkTimes: [.3, .32, .4, .28], attack: { cells: [26, 27, 28, 29, 30, 31, 32, 33], times: [.09, .08, .22, .05, .15, .07, .08, .12], hit: 4 }, hurt: [34, 35], rise: [36, 37], xGeom: { h: 224, root: 92, foot: 216 } },
   },
 } as const
 export const HAEBI_ANIM = {

diff --git a/docs/realm/production/CLAUDE-HANDOFF-20261124.md b/docs/realm/production/CLAUDE-HANDOFF-20261124.md
@@ -360,3 +360,8 @@
 - **밧줄 서기 쥔 손 옮기기(L12~L14) 셋 모두 실패**(Codex: 밧줄이 여전히 화면 오른쪽 먼 손 · 비라는 출력 폭도 2122→2121). 앞 판(`out-<열쇠>-stand.png`)을 그대로 쓴다(k2 는 `-stand-k2.png` 로 보관). 그래서 **인형의 밧줄 손을 먼 손(파란 팔)으로 그리는 길을 더했다**: `pose-rig.py` 걷기 prop `whipf`(먼 팔 고정 · 가까운 팔 흔듦 · 타래는 손 오른쪽) · 공격·개성·맞음 `whip2f`·`lassof`(포즈의 가까운 손·먼 손 자리를 맞바꿈 `_swap_hands`) · `scene-pack.py <이름> whip2f|lassof …`. 기존 whip·whip2·lasso 출력은 바이트로 같음(HEAD 와 견줌).
 - 서기 밧줄 타래(몸 오른쪽 밖 · 옛 서기 → 새 서기 · 게임 화소): 비라 폭 25·높이 66 → 27·68(키의 49% → 49%) · 우가 누리 20·64 → 20·68(47% → 49%) · 오름비 28·65 → 28·68(47% → 49%). 서기 그림은 옛 서기와 밧줄 크기가 같다.
 - 동작 주문 **비라 L15~L20 · 우가 누리 L21~L26 · 탐라 오름비 L27~L32**(걷기 · 휘두름 a · b · 개성 · 쓰러짐 · 맞음 · STD 이름 `out-<열쇠>-walk8|lassof-a|…`). 하네스 줄은 `atk='whip', src='lassof'|'whip2f', actw=288, backfoot=True`(구울 때 `tools/out/x/bake_all.sh <열쇠> gen-<열쇠>` 식 · 걷기 받으면 `walk-rows.py` 로 앞뒤 절반 윗몸 견줌).
+- **미추홀 비라 설치(밧줄 올가미 · 먼 손에 쥠 · L15~L20)**: flow GIF `tools/out/lineup/gen-bira-flow.gif` · 펼친 판 `tools/out/lineup/chk-gen-bira-flowframes.png` · 칸 확대 판 `tools/out/w/bira-atk.png`(서기 + 휘두름 여덟) · `bira-walk.png` · `bira-qhd.png`(개성·맞음·쓰러짐). 하네스 판정 합격 · 칸 38 · `actw=288` · 공격 칸 [26..33] 손으로 고침 · kit-table 은 그대로(묶음은 따로).
+  - **서기 → 동작 이음매**: 밧줄 쥔 손은 서기 · 걷기 여덟 · 개성 1·4 · 맞음 1·4 · 휘두름 b4 에서 서기와 같은 화면 오른쪽(먼) 손 → 인형을 먼 손으로 바꾼 것이 걷기·서기 쪽에서 먹혔다. **휘두름 칸에서는 안 먹었다**: a1~a3·a4 의 일부와 개성 3·맞음 2·4 는 왼쪽(가까운) 손으로 쥔다(Codex 도 L16·L17 에서 같은 말). 독립 검수(sonnet): 「걷기·서기·쓰러짐 넣어도 됨 · 휘두름 a2·a4 손이 칸 사이에 바뀜 · b2 줄이 가장 김」 → 휘두름 a·b 만 다시 주문 **L33 · L34**(`out-bira-lassof-a-k2.png`·`-b-k2.png` · 이번엔 칸마다 「파란 팔」 이름을 박았다). 오면 앞 판과 견줘 나은 쪽을 `out-bira-lassof-a|b.png` 로 두고 `bake_all.sh bira gen-bira` → `strip install` → wire-hero 는 다시 안 해도 됨(칸 수 같음) → `hit-install` 은 hit 줄만 있으면 생략 · **`walk-rows.py --fix bira` 를 다시**(굽기가 걷기를 되돌린다).
+  - 숫자: 뒷발 왼쪽 끝(뿌리 기준) a1 -31 · a2 -30 · a3 -31 · a4 -30 · b1 -34 · b2 -34 · b3 -33(±2) · b4 -19(서기로) · 앞발 a1 6~27 → b1 28~50 내딛음. 밧줄 타래(몸 오른쪽 밖 폭×높이): 서기 27×68 · 걷기 23~33 × 56~69(다리가 겹치는 두 칸 56·57). 옷 색(가운데값): 조끼 서기 (47,50,67) · 걷기 (46,47~48,57~59) · 휘두름 (47~53,53~59,60~67) · 맞음 (53~60,53~60,66~72) · 쓰러짐 (66,66,86 · 조금 밝음) · 저고리 서기 (253,232,201) · 동작 (253~255,235~252,190~218) · 정강이 감개 서기 (253,211,182) · 동작 (252~255,215~235,176~190) → 동작이 조금 밝고 노랗다(채널당 20 안).
+  - **걷기**: 뒤 절반(8~11) 윗몸이 앞 절반과 크게 달랐다(어긋남 59·70·47·55% · 아랫줄은 몸이 더 돌고 팔이 배를 가로지름 · 눈으로 확인) → 설치 뒤 `walk-rows.py --fix bira` 로 앞 절반을 두 번 씀(0%). 굽거나 `strip install` 하면 사라지니 그 뒤에 다시. 걷기 다리 교대는 앞·뒤 절반을 같게 덮어 읽히지 않음(코디네이터 규칙).
+  - 쓰러짐 15세 선 단정(비침·윤곽 없음 · 네 칸 하의가 몸에 붙음) · 맞음 2 의 밧줄이 짧은 고리 하나로 줄고 맞음 3 의 손잡이가 금속 통처럼 보임(Codex 걱정) · 맞음 4·개성 2 는 두 손으로 줄을 잡음.
